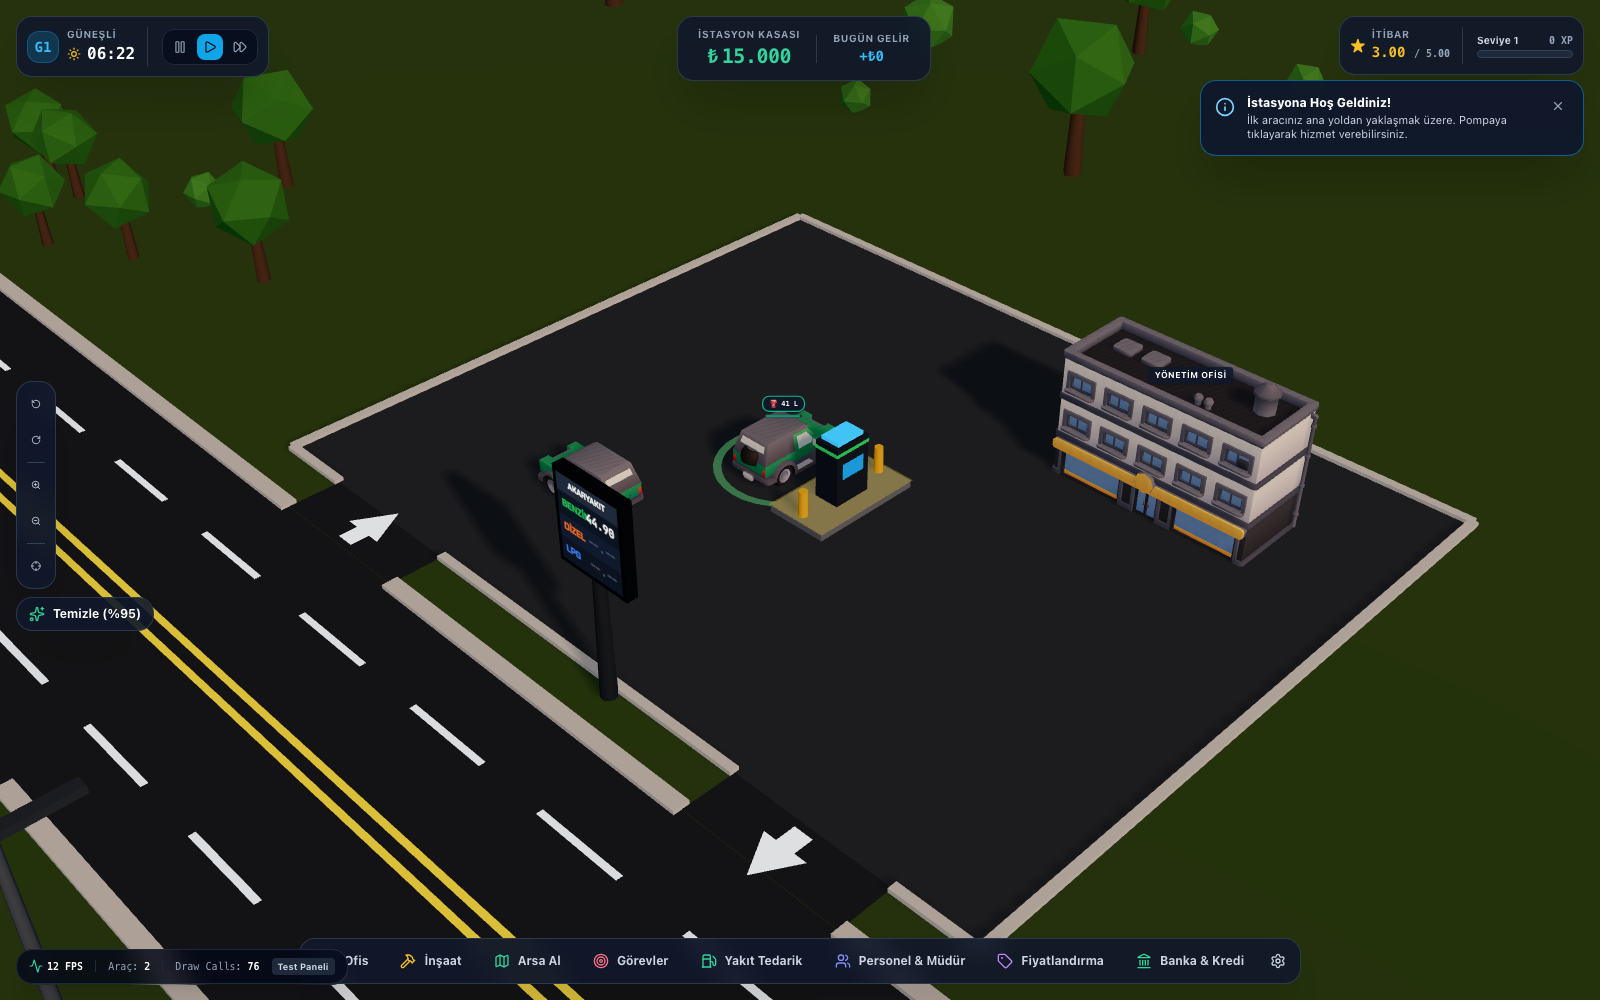
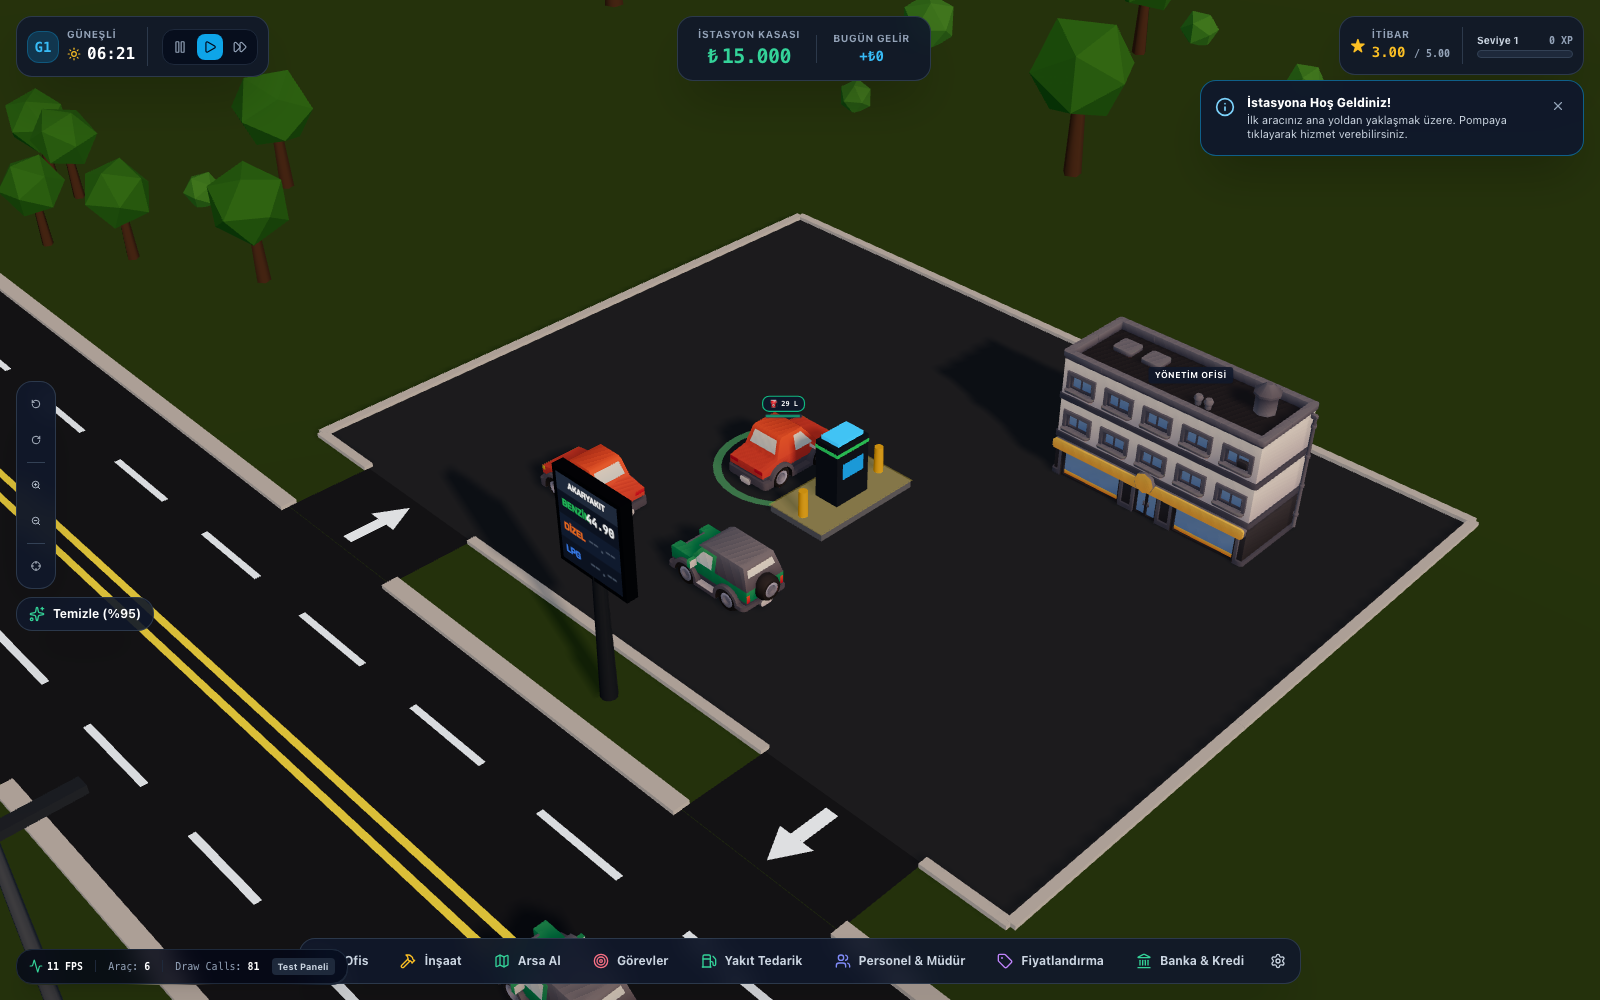
giriş/çıkış rampası oklarının boyutları düzeltildi

diff --git a/src/rendering/GroundGrid.tsx b/src/rendering/GroundGrid.tsx
@@ -13,7 +13,7 @@ const roadHalfWidth = LAYOUT.roadHalfWidth * S;
 const KERB = { width: 0.34, height: 0.16 };
 
 /** Gap between the road kerb and the forecourt, bridged by the driveways. */
-const VERGE_DEPTH = 2.0;
+const VERGE_DEPTH = 3.2;
 
 /** Width of a driveway mouth, and the gap it needs in both kerb lines. */
 const DRIVEWAY_WIDTH = 6;
@@ -81,16 +81,29 @@ const Driveway: React.FC<{ x: number; apronFront: number; entering: boolean }> =
         <meshStandardMaterial color="#2b3340" roughness={0.8} />
       </mesh>
 
-      {/* Painted arrow showing which way this mouth runs */}
+      {/* Painted arrow, sized from the mouth so it never runs off the tarmac */}
       <group position={[0, 0.034, midZ]} rotation={[-Math.PI / 2, 0, entering ? 0 : Math.PI]}>
-        <mesh position={[0, -depth * 0.16, 0]}>
-          <planeGeometry args={[0.7, depth * 0.42]} />
-          <meshBasicMaterial color="#f1f5f9" />
-        </mesh>
-        <mesh position={[0, depth * 0.22, 0]} rotation={[0, 0, Math.PI / 2]}>
-          <circleGeometry args={[0.95, 3]} />
-          <meshBasicMaterial color="#f1f5f9" />
-        </mesh>
+        {(() => {
+          // Fit the arrow inside the shorter of the two dimensions.
+          const total = Math.min(depth * 0.78, DRIVEWAY_WIDTH * 0.5);
+          // An equilateral triangle of circumradius r spans 1.5r along its
+          // axis, from -r/2 (base) to +r (apex).
+          const r = Math.min((total * 0.45) / 1.5, (DRIVEWAY_WIDTH * 0.42) / 1.73);
+          const shaftLength = Math.max(0.1, total - 1.5 * r);
+
+          return (
+            <>
+              <mesh position={[0, -0.75 * r, 0]}>
+                <planeGeometry args={[r * 0.62, shaftLength]} />
+                <meshBasicMaterial color="#f1f5f9" />
+              </mesh>
+              <mesh position={[0, total / 2 - r, 0]} rotation={[0, 0, Math.PI / 2]}>
+                <circleGeometry args={[r, 3]} />
+                <meshBasicMaterial color="#f1f5f9" />
+              </mesh>
+            </>
+          );
+        })()}
       </group>
     </group>
   );
